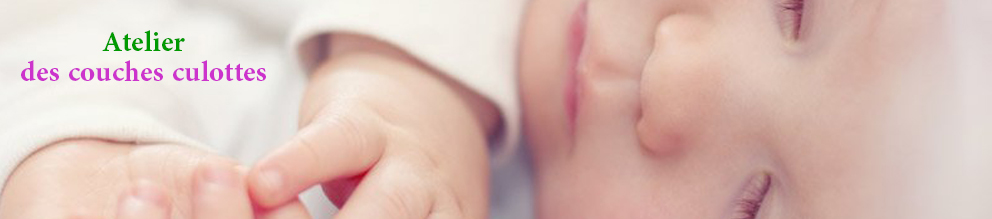
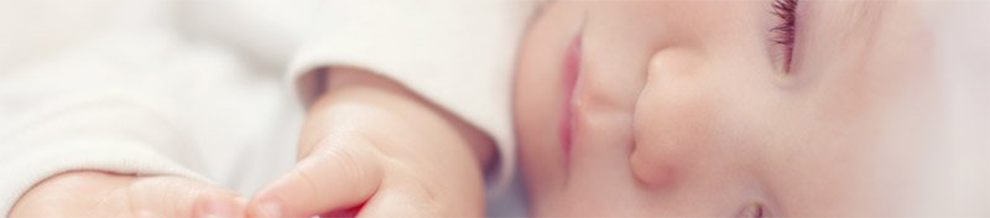
[feature/version-1]update banniere + resize menu + add contact form +

diff --git a/style.css b/style.css
@@ -23,6 +23,7 @@ header{
     width: 990px;
     height: 219px;
     background-image:url(img/header.jpg);
+    position:relative;
 }
 div.wrapper nav{
 
@@ -33,21 +34,18 @@ div.wrapper nav{
 }
 div.wrapper nav ul{
 
-    
-    margin: 0px;
+    margin: 0px auto;
     padding: 0px;
     width: 990px;
-    margin-left: 12px;
-
-
+    margin-left: 2px;
 }
 div.wrapper nav ul li{
 
     display: inline-block;
     text-decoration: none;
-    
+    margin: auto;
      line-height: 2.4;
-     width: 160px;
+     width: 161px;
      height: 41px;
      text-align: center;
      -webkit-transition: background-color 0.5s; /* For Safari 3.1 to 6.0 */
@@ -58,7 +56,7 @@ div.wrapper nav ul li:hover{
     display: inline-block;
     text-decoration: none;
     line-height: 2.4;
-    width: 160px;
+    width: 161px;
     height: 41px;
     text-align: center;
     background-color: #66cc66;
@@ -70,7 +68,7 @@ div.wrapper nav ul li a{
 
     text-decoration: none;
     color: #000000;
-    width: 190px;
+    width: 161px;
     height: 41px;
     display: inline-block;
       -webkit-transition: color 0.5s; /* For Safari 3.1 to 6.0 */
@@ -78,7 +76,7 @@ div.wrapper nav ul li a{
 
 }
 div.wrapper nav ul li a:hover{
-     width: 190px;
+     width: 161px;
     height: 41px;
      display: inline-block;
 
@@ -206,12 +204,12 @@ section#association img{
 }
 
 /* Page Category */
-.item { width: 224px; 
+.item { width: 200px; 
 
     vertical-align: baseline;
     height: auto;
     border:3px solid black;
-    margin: 10px;
+    margin:25px 0 0 17px;
     background-color: white;
     padding: 8px;
 
@@ -220,6 +218,11 @@ section#association img{
 
     background-color: white;
     opacity: 0.5;
+}
+.publishTime{
+    color:#66cc66;
+    font-size: 10px;
+    font-weight: bold;
 }
 
 

diff --git a/category.php b/category.php
@@ -13,51 +13,37 @@ get_header(); ?>
 
 <?php
 if( is_user_logged_in()){?>
-
-           
-
-
-	    <div  class="js-masonry container"
-  data-masonry-options='{ "columnWidth": 2, "itemSelector": ".item" }'>
-    
-    	<!--class="js-masonry"
-  data-masonry-options='{ "columnWidth": 0, "itemSelector": ".item" }'-->
-   			<?php //query_posts('showposts=15') ?>
-			<?php while ( have_posts() ) : the_post(); ?>
-   			 <?php $url = wp_get_attachment_url( get_post_thumbnail_id($post->ID, 'thumbnail') ); ?>
+	<div  class="js-masonry container"
+  		data-masonry-options='{ "columnWidth": 2, "itemSelector": ".item" }'>
+    		<!--class="js-masonry"data-masonry-options='{ "columnWidth": 0, "itemSelector": ".item" }'-->
+   				<?php //query_posts('showposts=15') ?>
+					<?php while ( have_posts() ) : the_post(); ?>
+   			 			<?php $url = wp_get_attachment_url( get_post_thumbnail_id($post->ID, 'thumbnail') ); ?>
 		<div class="item" id="item-<?php the_ID(); ?>">
-
 			<?php if ( has_post_thumbnail() ) : ?>
-					<div align="center">
-						 <a class="group1" width="1010" height="677" href="<?php echo $url; ?>"><?php the_post_thumbnail(array( 200,200)); ?></a>
-          </div>
-						<div><?php the_content(); ?>
-							<p style="font-size:12px;color:red;">Publier à <?php echo get_the_modified_time();  ?> par <?php the_author(); ?></p>
-						</div>
-					
-							</div>
-							
-
+				<div align="center">
+					<a class="group1" width="1010" height="677" href="<?php echo $url; ?>"><?php the_post_thumbnail(array( 200,200)); ?></a>
+          		</div>
+				<div class="contentCat"><?php the_content(); ?>
+					<p class="publishTime">Publier à <?php echo get_the_modified_time();  ?> par <?php the_author(); ?></p>
+				</div>		
+		</div>
 				<?php endif; ?>
 			<?php endwhile; // end of the loop. ?>
 		    <script type="text/javascript" src="http://ajax.googleapis.com/ajax/libs/jquery/1.8.3/jquery.js"></script>
 
-		<div class="right">
+		<!--<div class="right">
 			 <?php get_sidebar('main'); ?>
-		</div>
-		</div>
+		</div>-->
+	</div>
 		
 <?php }else{ ?>
-
-	<h1>Veuillez vous connecter </h1>
-
-<?php
-}
-?>
+<h1>Veuillez vous connecter </h1>
+<?php } ?>
 <div style="clear:both;"></div>
 
 		</div><!-- #content -->
 	</div><!-- #primary -->
 
-<?php get_sidebar(); ?>
+<?php //get_sidebar(); ?>
 <?php get_footer(); ?>

diff --git a/header.php b/header.php
@@ -38,5 +38,7 @@
 	<!--<script src="https://ajax.googleapis.com/ajax/libs/jquery/1.10.2/jquery.min.js"></script>-->
 <body <?php body_class(); ?>>
 	 <div class="wrapper">
-        <header></header>
+        <header>
+        	<a style="display:block;width:272px;height:73px;position:absolute;top:25px;font-size:25px;text-decoration:none;" align="center" href="<?php echo site_url(); ?>" width="272" height="73" title="Atelier des couches culottes">Atelier<br>des couches culottes</a>
+        </header>
         <nav><?php wp_nav_menu(array('theme_location' => 'primary' ) ); ?></nav>

diff --git a/contact.php b/contact.php
@@ -1,0 +1,22 @@
+<?php
+/*
+
+Template Name: Contact
+
+*/
+get_header();
+?>
+<div class="js-masonry container">
+	<?php while ( have_posts() ) : the_post(); ?>
+
+				<?php the_content(); ?>
+
+
+			<?php endwhile; ?>
+</div>
+
+	</div><!-- #content -->
+	</div><!-- #primary -->
+
+<?php //get_sidebar(); ?>
+<?php get_footer(); ?>
